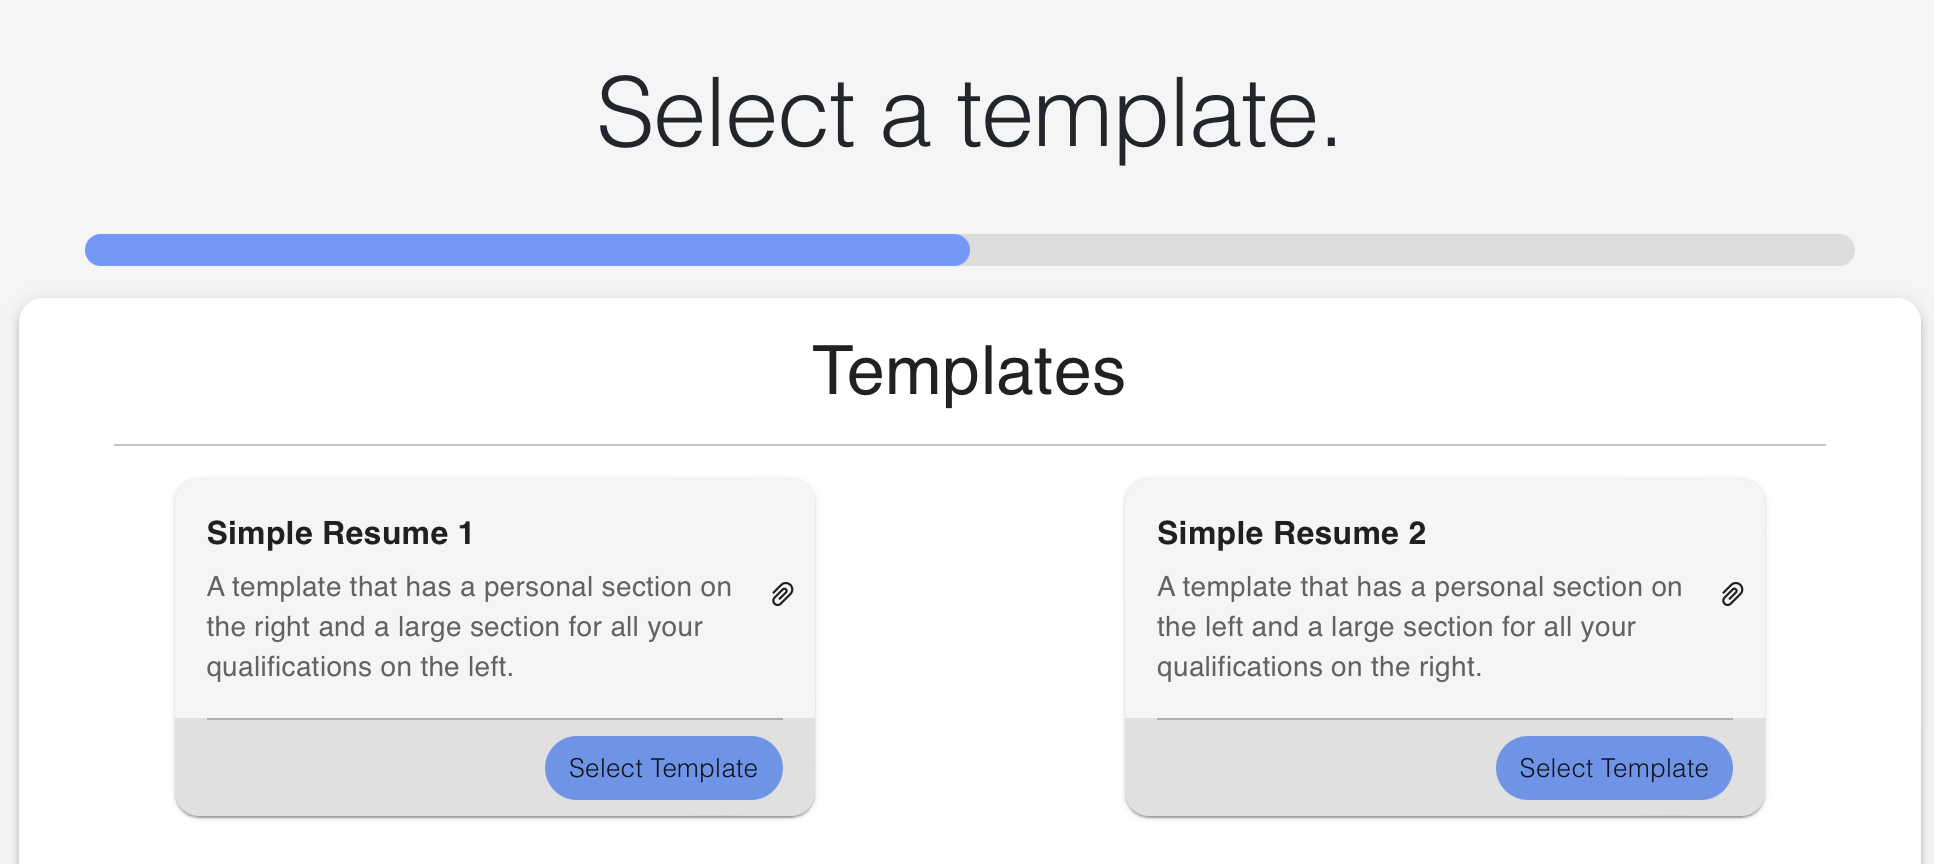
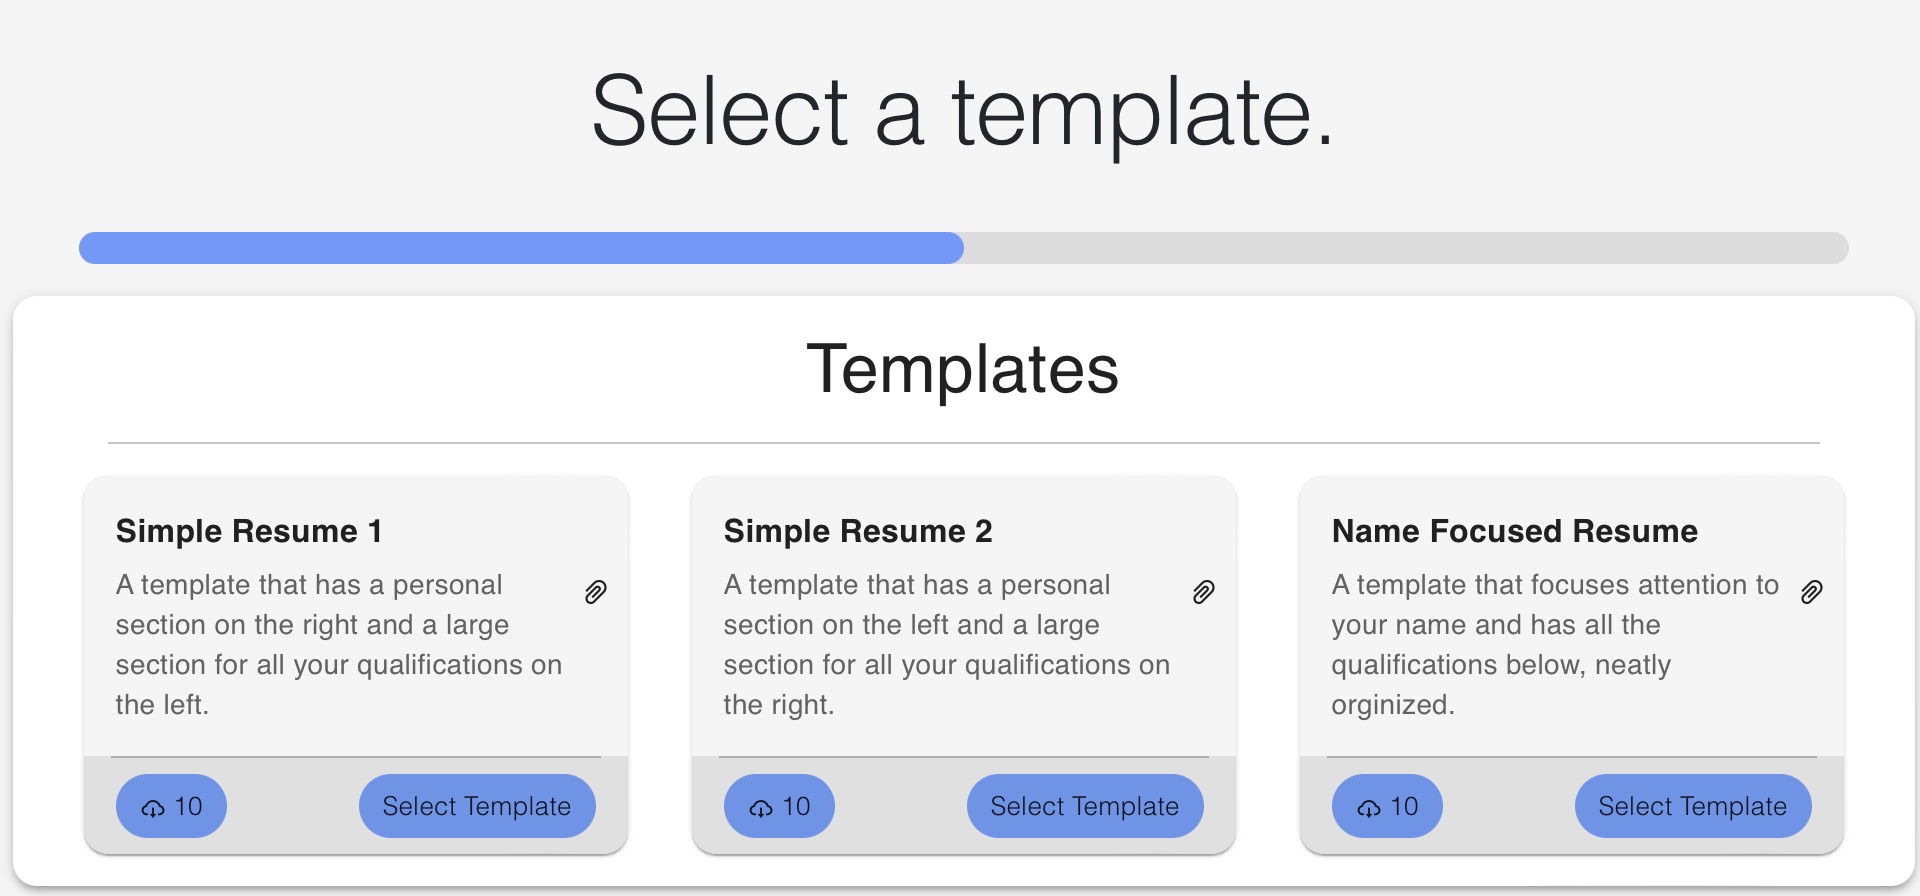
Made UI Changes
Changed homepage UI and template preview UI.

diff --git a/website/resume-maker/src/components/TemplateOption.js b/website/resume-maker/src/components/TemplateOption.js
@@ -11,6 +11,7 @@ import {
 import "../App.css";
 import { AiOutlinePaperClip } from "@react-icons/all-files/ai/AiOutlinePaperClip";
 import { AiOutlineCloseCircle } from "@react-icons/all-files/ai/AiOutlineCloseCircle";
+import { AiOutlineCloudDownload } from "@react-icons/all-files/ai/AiOutlineCloudDownload";
 import React, { Component } from "react";
 import { Document, Page, pdfjs } from "react-pdf";
 pdfjs.GlobalWorkerOptions.workerSrc = `//cdnjs.cloudflare.com/ajax/libs/pdf.js/${pdfjs.version}/pdf.worker.js`;
@@ -25,6 +26,7 @@ class TemplateOption extends Component {
       description: props.description,
       preview: props.preview,
       id: props.id,
+      downloads: props.downloads,
       displayPreview: false,
     };
     this.state = initialState;
@@ -71,6 +73,7 @@ class TemplateOption extends Component {
       preview,
       id,
       displayPreview,
+      downloads,
     } = this.state;
     let color = "#6495ED";
     return (
@@ -108,7 +111,9 @@ class TemplateOption extends Component {
             <div></div>
           )}
 
-          <Box sx={{ p: 2, display: "flex", width: "20rem", bgcolor: "#F5F5F5" }}>
+          <Box
+            sx={{ p: 2, display: "flex",width: "17rem", bgcolor: "#F5F5F5" }}
+          >
             <Stack spacing={0.5}>
               <Typography fontWeight={700}>{templateName}</Typography>
               <div style={{ display: "flex" }}>
@@ -117,7 +122,10 @@ class TemplateOption extends Component {
                     {description}
                   </Typography>
                 </div>
-                <div onClick={() => this.displayPreview()} style={{ width: "5%" }}>
+                <div
+                  onClick={() => this.displayPreview()}
+                  style={{ width: "5%" }}
+                >
                   <AiOutlinePaperClip style={{ width: "200%" }} />
                 </div>
               </div>
@@ -130,8 +138,17 @@ class TemplateOption extends Component {
             justifyContent="space-between"
             sx={{ px: 2, py: 1 }}
           >
-            <div></div>
-            <Typography color="white" fontWeight={300}>
+            <Typography color="white" fontWeight={300} align="left">
+              <Chip
+                sx={{ backgroundColor: color }}
+                label={
+                  <>
+                    <AiOutlineCloudDownload /> {downloads}
+                  </>
+                }
+              />
+            </Typography>
+            <Typography color="white" fontWeight={300} align="right">
               <Chip
                 sx={{ backgroundColor: color }}
                 label={"Select Template"}

diff --git a/website/resume-maker/src/components/Templates.js b/website/resume-maker/src/components/Templates.js
@@ -53,6 +53,7 @@ class Templates extends Component {
               id="00000001"
               onClick={() => this.templateSelect("00000001")}
               preview={TemplateOne}
+              downloads={10}
             />
             <TemplateOption
               name="Simple Resume 2"
@@ -60,6 +61,7 @@ class Templates extends Component {
               id="00000002"
               onClick={() => this.templateSelect("00000002")}
               preview={TemplateTwo}
+              downloads={10}
             />
             <TemplateOption
               name="Name Focused Resume"
@@ -67,6 +69,7 @@ class Templates extends Component {
               id="00000003"
               onClick={() => this.templateSelect("00000003")}
               preview={TemplateThree}
+              downloads={10}
             />
           </div>
         </Paper>

diff --git a/website/resume-maker/src/pages/Generateresume.js b/website/resume-maker/src/pages/Generateresume.js
@@ -109,7 +109,6 @@ class Generateresume extends Component {
     return (
       <>
         <Header />
-
         <Typography
           fontSize={"3rem"}
           variant="h1"
@@ -118,9 +117,8 @@ class Generateresume extends Component {
         >
           {message}
         </Typography>
-        <div className="resume-form" style={{height: "auto"}}>
-
-        <CompletionBar progress={progress} />
+        <div className="resume-form" style={{ height: "auto" }}>
+          <CompletionBar progress={progress} />
         </div>
         <div className="resume-form">
           {qualificationsDone ? (

diff --git a/website/resume-maker/src/App.css b/website/resume-maker/src/App.css
@@ -92,10 +92,10 @@ img {
 
 .yellow-accent {
   background-color: #fecf6a;
-  width: 115%;
+  width: 100%;
   border-radius: 50%;
-  padding-left: 7.5%;
-  padding-right: 7.5%;
+  padding-left: 5%;
+  padding-right: 5%;
 }
 
 .footer {
@@ -166,7 +166,7 @@ img {
   justify-content: center;
   align-items: center;
   width: auto;
-  margin: 1rem auto 1rem auto;
+  margin: 1rem 1rem 1rem 1rem;
 }
 
 .content-container {
@@ -180,7 +180,7 @@ img {
 
 .content-container-center {
   display: flex;
-  width: 75%;
+  width: 80%;
   align-items: center;
   justify-content: center;
   margin: auto;
